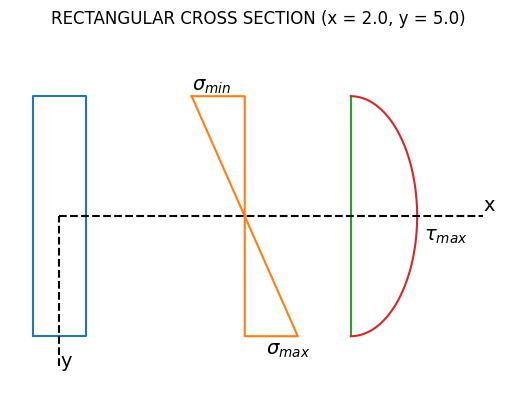
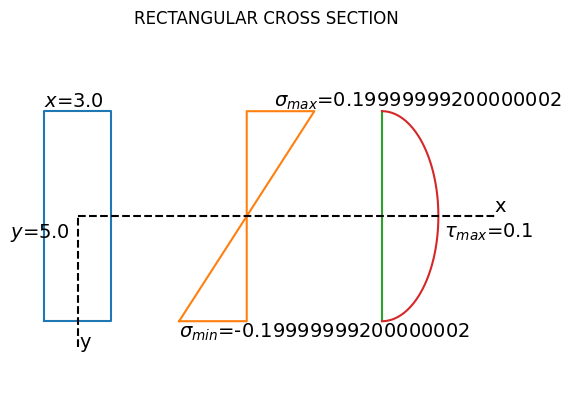
adding tensile and compress stress inputbox, update section.py

diff --git a/pages/1_Section Designer.py b/pages/1_Section Designer.py
@@ -63,7 +63,7 @@ with tab2:
                 max_bending_moment = st.number_input('Maximum bending moment (kNm)', step=0.01)
                 max_shear_force = st.number_input('Maximum shear force (kN)', step=0.01)
                 shear_force_at_maximum_moment = st.number_input('Shear force at maximum moment (kN)', step=0.01)
-                sigma = st.number_input('Allowable stress (N/m^2)', step=0.01)
+                # sigma_t = st.number_input('Allowable tensile stress (N/m^2)', step=0.01)
                 
             elif input_method == "From file":
                 max_bm, max_sf, sf_at_max_bm = read_output_file()
@@ -75,9 +75,13 @@ with tab2:
                     st.write(f"Maximum bending moment (kNm): {max_bm}")
                     st.write(f"Maximum shear force (kN): {max_sf}")
                     st.write(f"Shear force at maximum moment (kN): {sf_at_max_bm}")
-                    sigma = st.number_input('Allowable stress (N/m^2)', step=0.01)
+                    # sigma = st.number_input('Allowable stress (N/m^2)', step=0.01)
                 else:
                     st.error('Error! Something not right', icon="🚨")
+                    
+            sigma_t = st.number_input('Allowable tensile stress (N/m^2)', step=0.01)
+            sigma_c = st.number_input('Allowable compress stress (N/m^2)', step=0.01)
+            
         with col3:
             type_criterion = st.selectbox('Type criterion', ('Tresca', 'von Mises'))
             
@@ -94,9 +98,9 @@ with tab2:
                 
                 try:
                     if type_criterion == "Tresca":
-                        tau = sigma/2
+                        tau = sigma_t/2
                     elif type_criterion == "von Mises":
-                        tau = sigma/math.sqrt(3)
+                        tau = sigma_t/math.sqrt(3)
                         
                     Sx, Sy, Jx, Jy, Wx, Wy, sigmamin, sigmamax, taumax = hinhchunhat(width, height, max_bending_moment, max_shear_force)
                     plot_rec(width, height, shear_force_at_maximum_moment, sigmamin, sigmamax, taumax)
@@ -127,7 +131,7 @@ with tab2:
                     st.write(f'Bending moment Wy: {Wy}')
                     st.write(f'Principal stress sigma_max: {sigmamax}')
                     st.write(f'Maximun shear stress on the section: {taumax}')
-                    if sigmamax <= sigma:
+                    if sigmamax <= sigma_t:
                         # st.write('Ductile (Durable) boundary layer')
                         st.success('Boundary layer satisfying strength', icon="✅")
                     else:
@@ -166,7 +170,7 @@ with tab2:
                 max_bending_moment = st.number_input('Maximum bending moment (kNm)', step=0.01)
                 max_shear_force = st.number_input('Maximum shear force (kN)', step=0.01)
                 shear_force_at_maximum_moment = st.number_input('Shear force at maximum moment (kN)', step=0.01)
-                sigma = st.number_input('Allowable stress (N/m^2)', step=0.01)
+                # sigma = st.number_input('Allowable stress (N/m^2)', step=0.01)
                 
             elif input_method == "From file":
                 max_bm, max_sf, sf_at_max_bm = read_output_file()
@@ -178,9 +182,13 @@ with tab2:
                     st.write(f"Maximum bending moment (kNm): {max_bm}")
                     st.write(f"Maximum shear force (kN): {max_sf}")
                     st.write(f"Shear force at maximum moment (kN): {sf_at_max_bm}")
-                    sigma = st.number_input('Allowable stress (N/m^2)', step=0.01)
+                    # sigma = st.number_input('Allowable stress (N/m^2)', step=0.01)
                 else:
                     st.error('Error! Something not right', icon="🚨")
+                    
+            sigma_t = st.number_input('Allowable tensile stress (N/m^2)', step=0.01)
+            sigma_c = st.number_input('Allowable compress stress (N/m^2)', step=0.01)
+            
         with col3_1:
             type_criterion = st.selectbox('Type criterion', ('Tresca', 'von Mises'))
             
@@ -193,9 +201,9 @@ with tab2:
                 
                 try:
                     if type_criterion == "Tresca":
-                        tau = sigma/2
+                        tau = sigma_t/2
                     elif type_criterion == "von Mises":
-                        tau = sigma/math.sqrt(3)
+                        tau = sigma_t/math.sqrt(3)
                         
                     Jx, Wx, sigmamin, sigmamax, taumax = hinhtron(max_bending_moment, max_shear_force, R)
                     plot_circle(R, shear_force_at_maximum_moment, sigmamin, sigmamax, taumax)
@@ -218,7 +226,7 @@ with tab2:
                     st.write(f'Bending moment Wx: {Wx}')
                     st.write(f'Principal stress sigma_max: {sigmamax}')
                     st.write(f'Maximun shear stress on the section: {taumax}')
-                    if sigmamax <= sigma:
+                    if sigmamax <= sigma_t:
                         # st.write('Ductile (Durable) boundary layer')
                         st.success('Boundary layer satisfying strength', icon="✅")
                     else:
@@ -258,7 +266,7 @@ with tab2:
                 max_bending_moment = st.number_input('Maximum bending moment (kNm)', step=0.01)
                 max_shear_force = st.number_input('Maximum shear force (kN)', step=0.01)
                 shear_force_at_maximum_moment = st.number_input('Shear force at maximum moment (kN)', step=0.01)
-                sigma = st.number_input('Allowable stress (N/m^2)', step=0.01)
+                # sigma = st.number_input('Allowable stress (N/m^2)', step=0.01)
                 
             elif input_method == "From file":
                 max_bm, max_sf, sf_at_max_bm = read_output_file()
@@ -270,9 +278,11 @@ with tab2:
                     st.write(f"Maximum bending moment (kNm): {max_bm}")
                     st.write(f"Maximum shear force (kN): {max_sf}")
                     st.write(f"Shear force at maximum moment (kN): {sf_at_max_bm}")
-                    sigma = st.number_input('Allowable stress (N/m^2)', step=0.01)
+                    # sigma = st.number_input('Allowable stress (N/m^2)', step=0.01)
                 else:
                     st.error('Error! Something not right', icon="🚨")
+            sigma_t = st.number_input('Allowable tensile stress (N/m^2)', step=0.01)
+            sigma_c = st.number_input('Allowable compress stress (N/m^2)', step=0.01)
         with col3_2:
             type_criterion = st.selectbox('Type criterion', ('Tresca', 'von Mises'))
             
@@ -285,9 +295,9 @@ with tab2:
                 
                 try:
                     if type_criterion == "Tresca":
-                        tau = sigma/2
+                        tau = sigma_t/2
                     elif type_criterion == "von Mises":
-                        tau = sigma/math.sqrt(3)
+                        tau = sigma_t/math.sqrt(3)
                         
                     Jx, Wx, sigmamin, sigmamax, taumax = hinhvanhkhan(max_bending_moment, max_shear_force, R1, R2)
                     plot_annulus(R1, R2, shear_force_at_maximum_moment, sigmamin, sigmamax, taumax)
@@ -309,7 +319,7 @@ with tab2:
                     st.write(f'Bending moment Wx: {Wx}')
                     st.write(f'Principal stress sigma_max: {sigmamax}')
                     st.write(f'Maximun shear stress on the section: {taumax}')
-                    if sigmamax <= sigma:
+                    if sigmamax <= sigma_t:
                         # st.write('Ductile (Durable) boundary layer')
                         st.success('Boundary layer satisfying strength', icon="✅")
                     else:
@@ -400,7 +410,7 @@ with tab2:
                 max_bending_moment = st.number_input('Maximum bending moment (kNm)', step=0.01)
                 max_shear_force = st.number_input('Maximum shear force (kN)', step=0.01)
                 shear_force_at_maximum_moment = st.number_input('Shear force at maximum moment (kN)', step=0.01)
-                sigma = st.number_input('Allowable stress (N/m^2)', step=0.01)
+                # sigma = st.number_input('Allowable stress (N/m^2)', step=0.01)
                 
             elif input_method == "From file":
                 max_bm, max_sf, sf_at_max_bm = read_output_file()
@@ -412,9 +422,11 @@ with tab2:
                     st.write(f"Maximum bending moment (kNm): {max_bm}")
                     st.write(f"Maximum shear force (kN): {max_sf}")
                     st.write(f"Shear force at maximum moment (kN): {sf_at_max_bm}")
-                    sigma = st.number_input('Allowable stress (N/m^2)', step=0.01)
+                    # sigma = st.number_input('Allowable stress (N/m^2)', step=0.01)
                 else:
                     st.error('Error! Something not right', icon="🚨")
+            sigma_t = st.number_input('Allowable tensile stress (N/m^2)', step=0.01)
+            sigma_c = st.number_input('Allowable compress stress (N/m^2)', step=0.01)
         with col3_2:
             type_criterion = st.selectbox('Type criterion', ('Tresca', 'von Mises'))
             
@@ -430,7 +442,7 @@ with tab2:
                     sigmamax, sigmatd, sigmamin, sigmamax, tau, taumax, sigmaN = hinh_I_C(type_criterion, shear_force_at_maximum_moment, max_shear_force, max_bending_moment, 
                                                         selected_rows['Sx'], selected_rows['Jx'], selected_rows['d'],
                                                         selected_rows['h'], selected_rows['t'], selected_rows['Wx'], selected_rows['Wy'],
-                                                        sigma)
+                                                        sigma_t)
                     plot_C(shear_force_at_maximum_moment, selected_rows['h'], selected_rows['b'], selected_rows['d'], selected_rows['t'], sigmamax, sigmatd, taumax)
                     
                 except Exception as error:
@@ -452,7 +464,7 @@ with tab2:
                     st.write(f'Equivalent stress sigma_td: {sigmatd}')
                     st.write(f'Maximun shear stress on the section tau_max: {taumax}')
                     
-                    if sigmamax <= sigma:
+                    if sigmamax <= sigma_t:
                         # st.write('Ductile (Durable) boundary layer')
                         st.success('Boundary layer satisfying strength', icon="✅")
                     else:
@@ -466,7 +478,7 @@ with tab2:
                         st.error('Neutral layer NOT satisfying strength', icon="🚨")
                         
                     st.write("Check the strength of the bar when the bar is horizontal")
-                    if abs(sigmamin) > sigma:
+                    if abs(sigmamin) > sigma_c:
                         # st.write('Ductile (Durable) horizontal bar')
                         st.success('Horizontal bar satisfying strength', icon="✅")
                     else:
@@ -549,7 +561,7 @@ with tab2:
                 max_bending_moment = st.number_input('Maximum bending moment (kNm)', step=0.01)
                 max_shear_force = st.number_input('Maximum shear force (kN)', step=0.01)
                 shear_force_at_maximum_moment = st.number_input('Shear force at maximum moment (kN)', step=0.01)
-                sigma = st.number_input('Allowable stress (N/m^2)', step=0.01)
+                # sigma = st.number_input('Allowable stress (N/m^2)', step=0.01)
                 
             elif input_method == "From file":
                 max_bm, max_sf, sf_at_max_bm = read_output_file()
@@ -561,9 +573,11 @@ with tab2:
                     st.write(f"Maximum bending moment (kNm): {max_bm}")
                     st.write(f"Maximum shear force (kN): {max_sf}")
                     st.write(f"Shear force at maximum moment (kN): {sf_at_max_bm}")
-                    sigma = st.number_input('Allowable stress (N/m^2)', step=0.01)
+                    # sigma = st.number_input('Allowable stress (N/m^2)', step=0.01)
                 else:
                     st.error('Error! Something not right', icon="🚨")
+            sigma_t = st.number_input('Allowable tensile stress (N/m^2)', step=0.01)
+            sigma_c = st.number_input('Allowable compress stress (N/m^2)', step=0.01)
         with col3_2:
             type_criterion = st.selectbox('Type criterion', ('Tresca', 'von Mises'))
             
@@ -579,7 +593,7 @@ with tab2:
                     sigmamax, sigmatd, sigmamin, sigmamax, tau, taumax, sigmaN = hinh_I_C(type_criterion, shear_force_at_maximum_moment, max_shear_force, max_bending_moment, 
                                                         selected_rows['Sx'], selected_rows['Jx'], selected_rows['d'],
                                                         selected_rows['h'], selected_rows['t'], selected_rows['Wx'], selected_rows['Wy'],
-                                                        sigma)
+                                                        sigma_t)
                     plot_I(shear_force_at_maximum_moment, selected_rows['h'], selected_rows['b'], selected_rows['d'], selected_rows['t'], sigmamax, sigmatd, taumax)
                     
                 except Exception as error:
@@ -601,7 +615,7 @@ with tab2:
                     st.write(f'Equivalent stress sigma_td: {sigmatd}')
                     st.write(f'Maximun shear stress on the section tau_max: {taumax}')
                     
-                    if sigmamax <= sigma:
+                    if sigmamax <= sigma_t:
                         # st.write('Ductile (Durable) boundary layer')
                         st.success('Boundary layer satisfying strength', icon="✅")
                     else:
@@ -615,7 +629,7 @@ with tab2:
                         st.error('Neutral layer NOT satisfying strength', icon="🚨")
                         
                     st.write("Check the strength of the bar when the bar is horizontal")
-                    if abs(sigmamin) > sigma:
+                    if abs(sigmamin) > sigma_c:
                         # st.write('Ductile (Durable) horizontal bar')
                         st.success('Horizontal bar satisfying strength', icon="✅")
                     else:

diff --git a/section.py b/section.py
@@ -445,3 +445,6 @@ def plot_C(Qy, h, b, d, t, sigmamax, sigmatd, taumax):
     plt.axis("off")
     plt.savefig("./images/plot_C", bbox_inches='tight', pad_inches=0.1)
     plt.close()
+
+# Sx, Sy, Jx, Jy, Wx, Wy, sigmamin, sigmamax, taumax = hinhchunhat(4, 3, 2.5, 1)
+# plot_rec(4, 3, 3, sigmamin, sigmamax, taumax)
